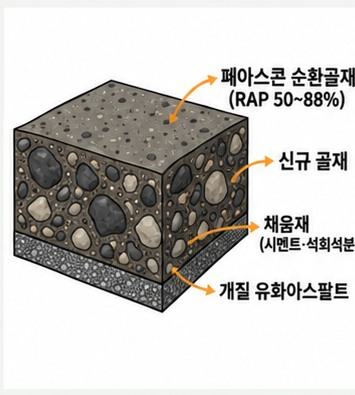
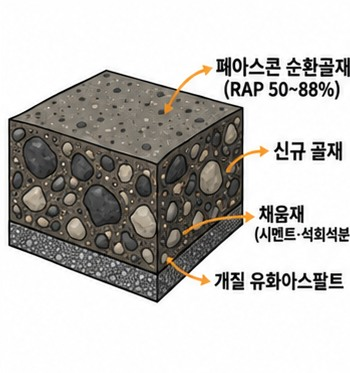
아스콘 단면 이미지 5종 규격 완전 통일 및 카드 테두리/그림자 아티팩트 제거, 아스콘의 종류 섹션도 동일 이미지로 통일

Changed region(s): [[0.0, 0.1475, 1.0, 0.8257]]

diff --git a/business.html b/business.html
@@ -120,28 +120,28 @@
 
       <div class="type-grid">
         <div class="type-card">
-          <img src="img/pavement-types/type-01-standard.jpg" alt="일반 아스콘 단면">
+          <img src="img/pavement-types/compare-standard.jpg" alt="일반 아스콘 단면">
           <div class="type-info">
             <h4>일반 아스콘 <em>Standard Asphalt Concrete</em></h4>
             <p>아스팔트 바인더에 굵은 골재·잔골재·채움재를 150~180℃ 고온에서 가열·혼합해 만든 가장 보편적인 도로 포장재.</p>
           </div>
         </div>
         <div class="type-card">
-          <img src="img/pavement-types/type-02-recycled.jpg" alt="순환 아스콘 단면">
+          <img src="img/pavement-types/compare-recycled.jpg" alt="순환 아스콘 단면">
           <div class="type-info">
             <h4>순환 아스콘 <em>Recycled Asphalt Concrete</em></h4>
             <p>폐아스콘을 파쇄·선별한 순환골재를 일정 비율 섞어 만든 친환경·경제적 포장재.</p>
           </div>
         </div>
         <div class="type-card">
-          <img src="img/pavement-types/type-03-color.jpg" alt="칼라 아스콘 단면">
+          <img src="img/pavement-types/compare-colored.jpg" alt="칼라 아스콘 단면">
           <div class="type-info">
             <h4>칼라 아스콘 <em>Colored Asphalt Concrete</em></h4>
             <p>무색 바인더나 합성수지에 색소를 더해 원하는 색상을 낸 기능성 포장재.</p>
           </div>
         </div>
         <div class="type-card">
-          <img src="img/pavement-types/type-06-modified.jpg" alt="개질 아스콘 단면">
+          <img src="img/pavement-types/compare-modified.jpg" alt="개질 아스콘 단면">
           <div class="type-info">
             <h4>개질 아스콘 <em>Modified Asphalt / PMA</em></h4>
             <p>특수 폴리머를 첨가해 하중과 온도 변화에 강하게 버티도록 성능을 높인 고기능성 포장재.</p>
